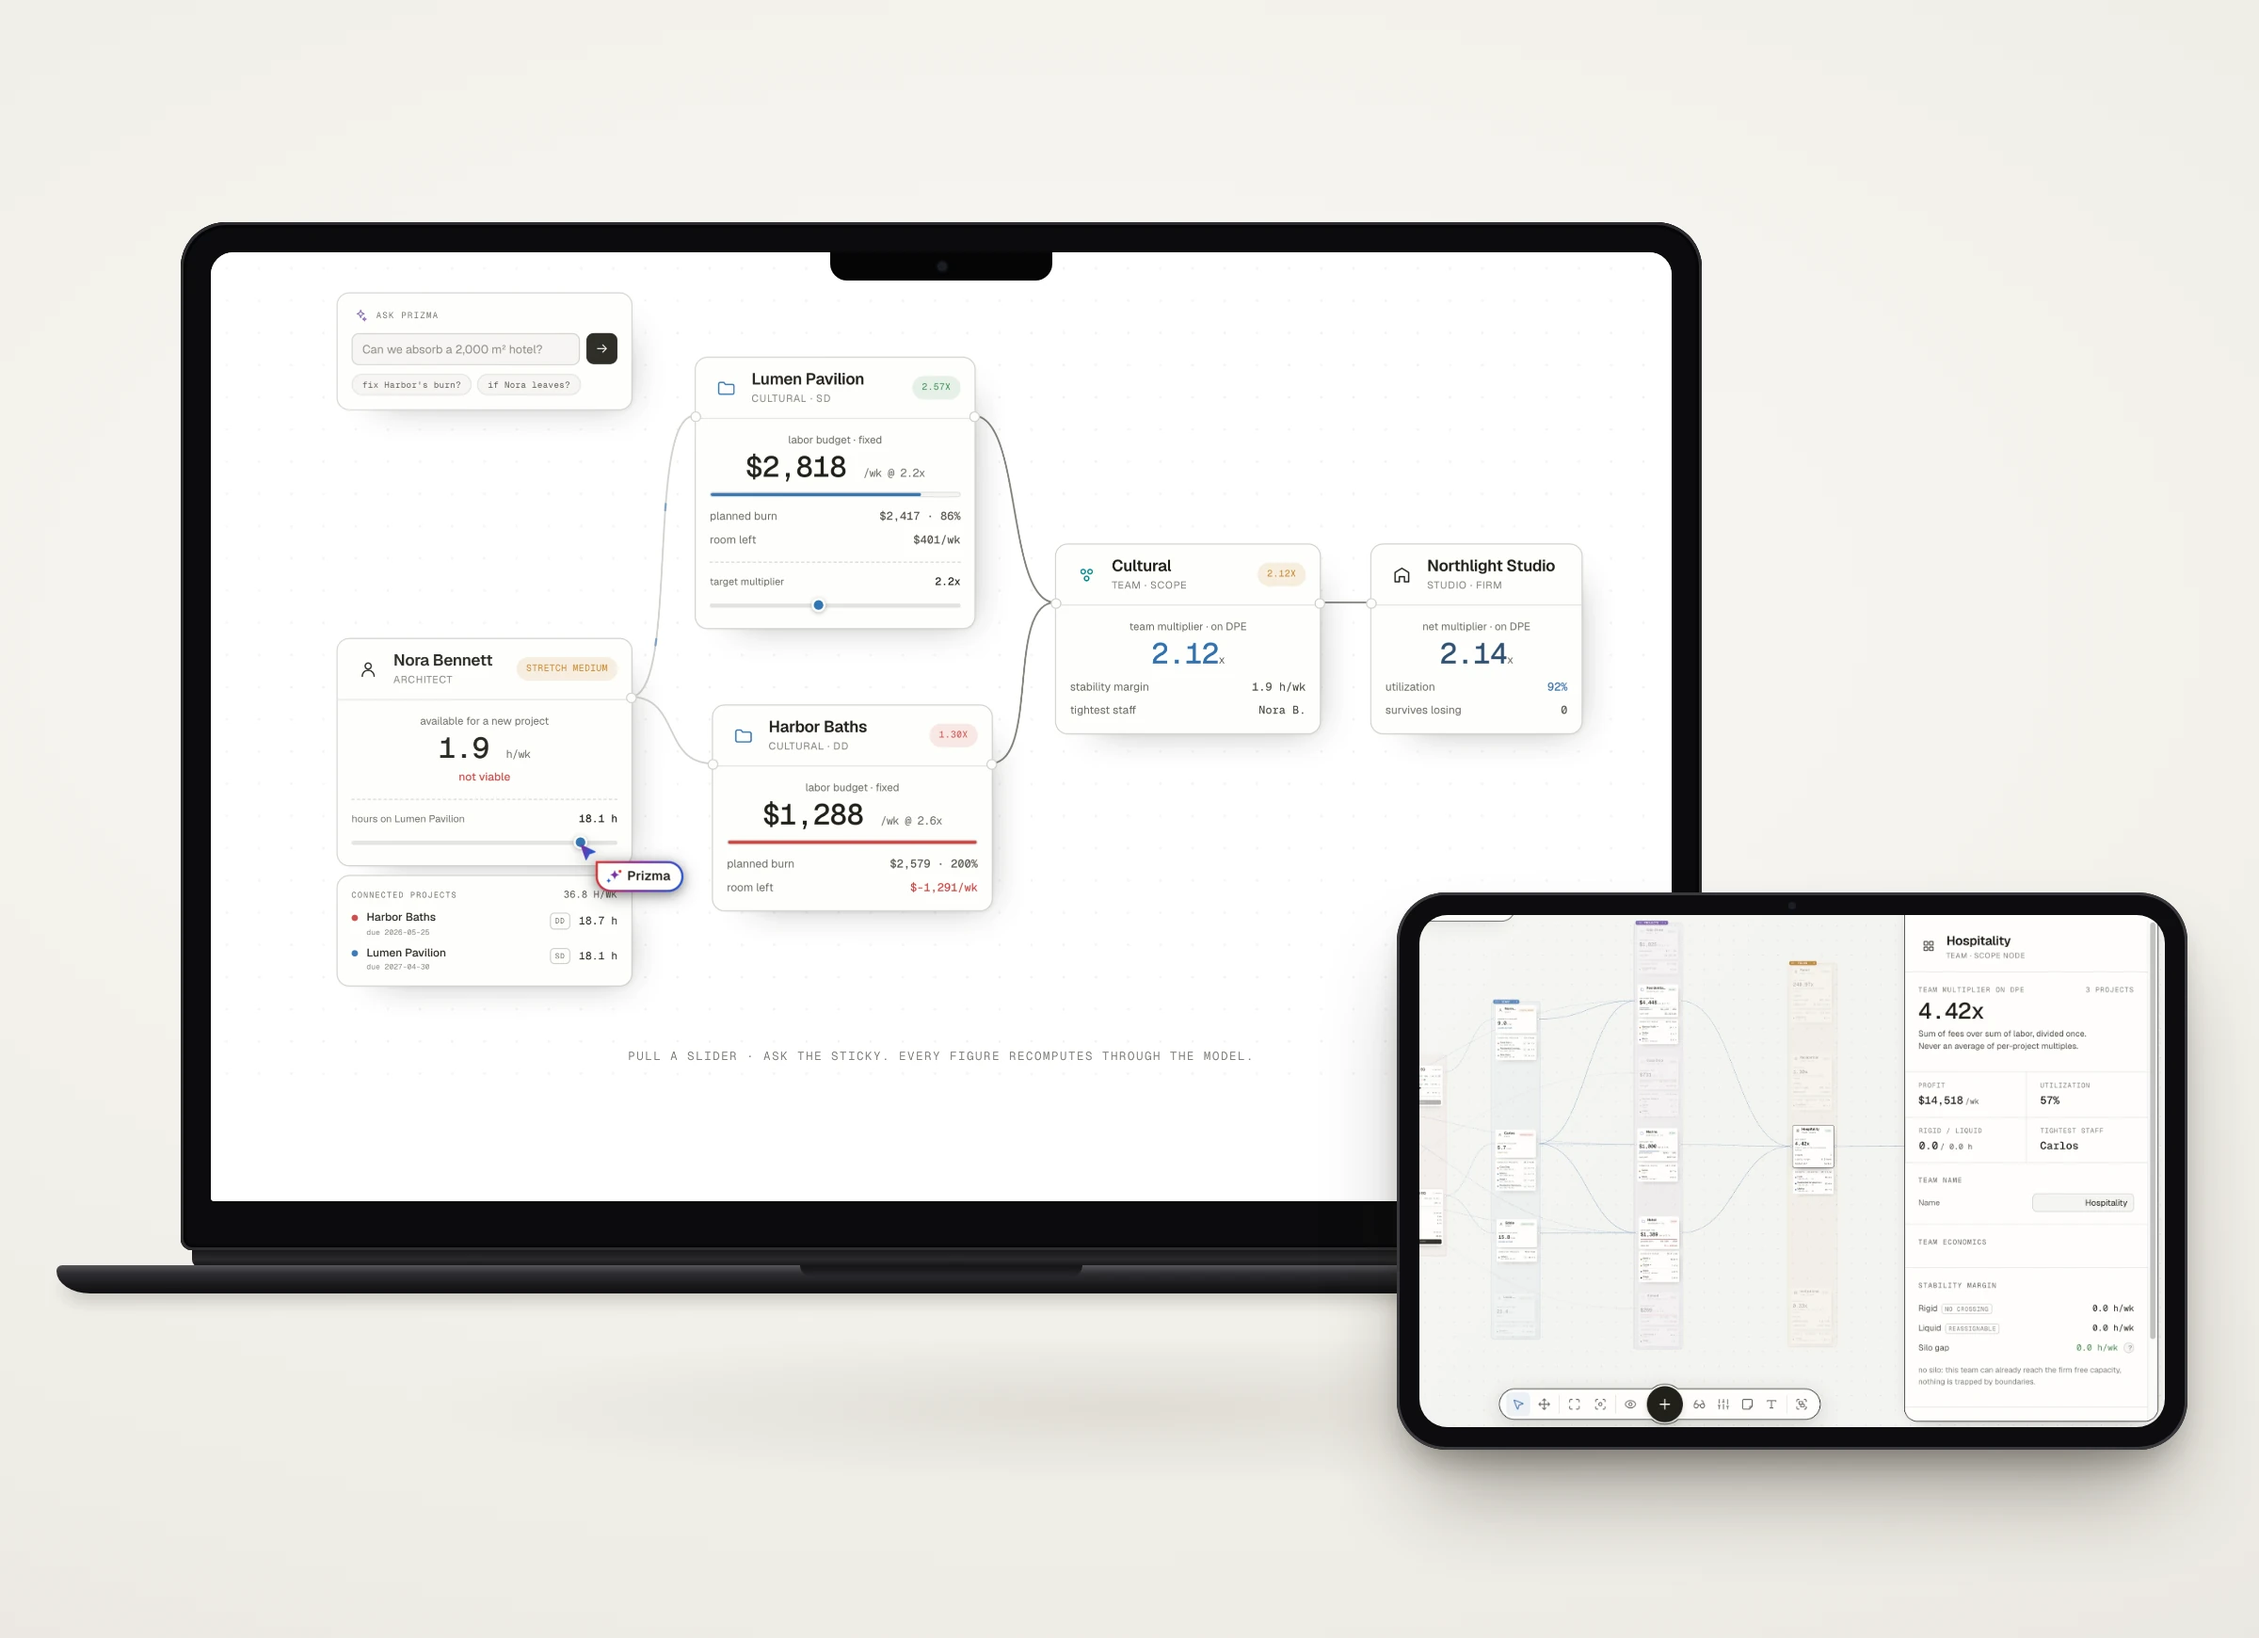
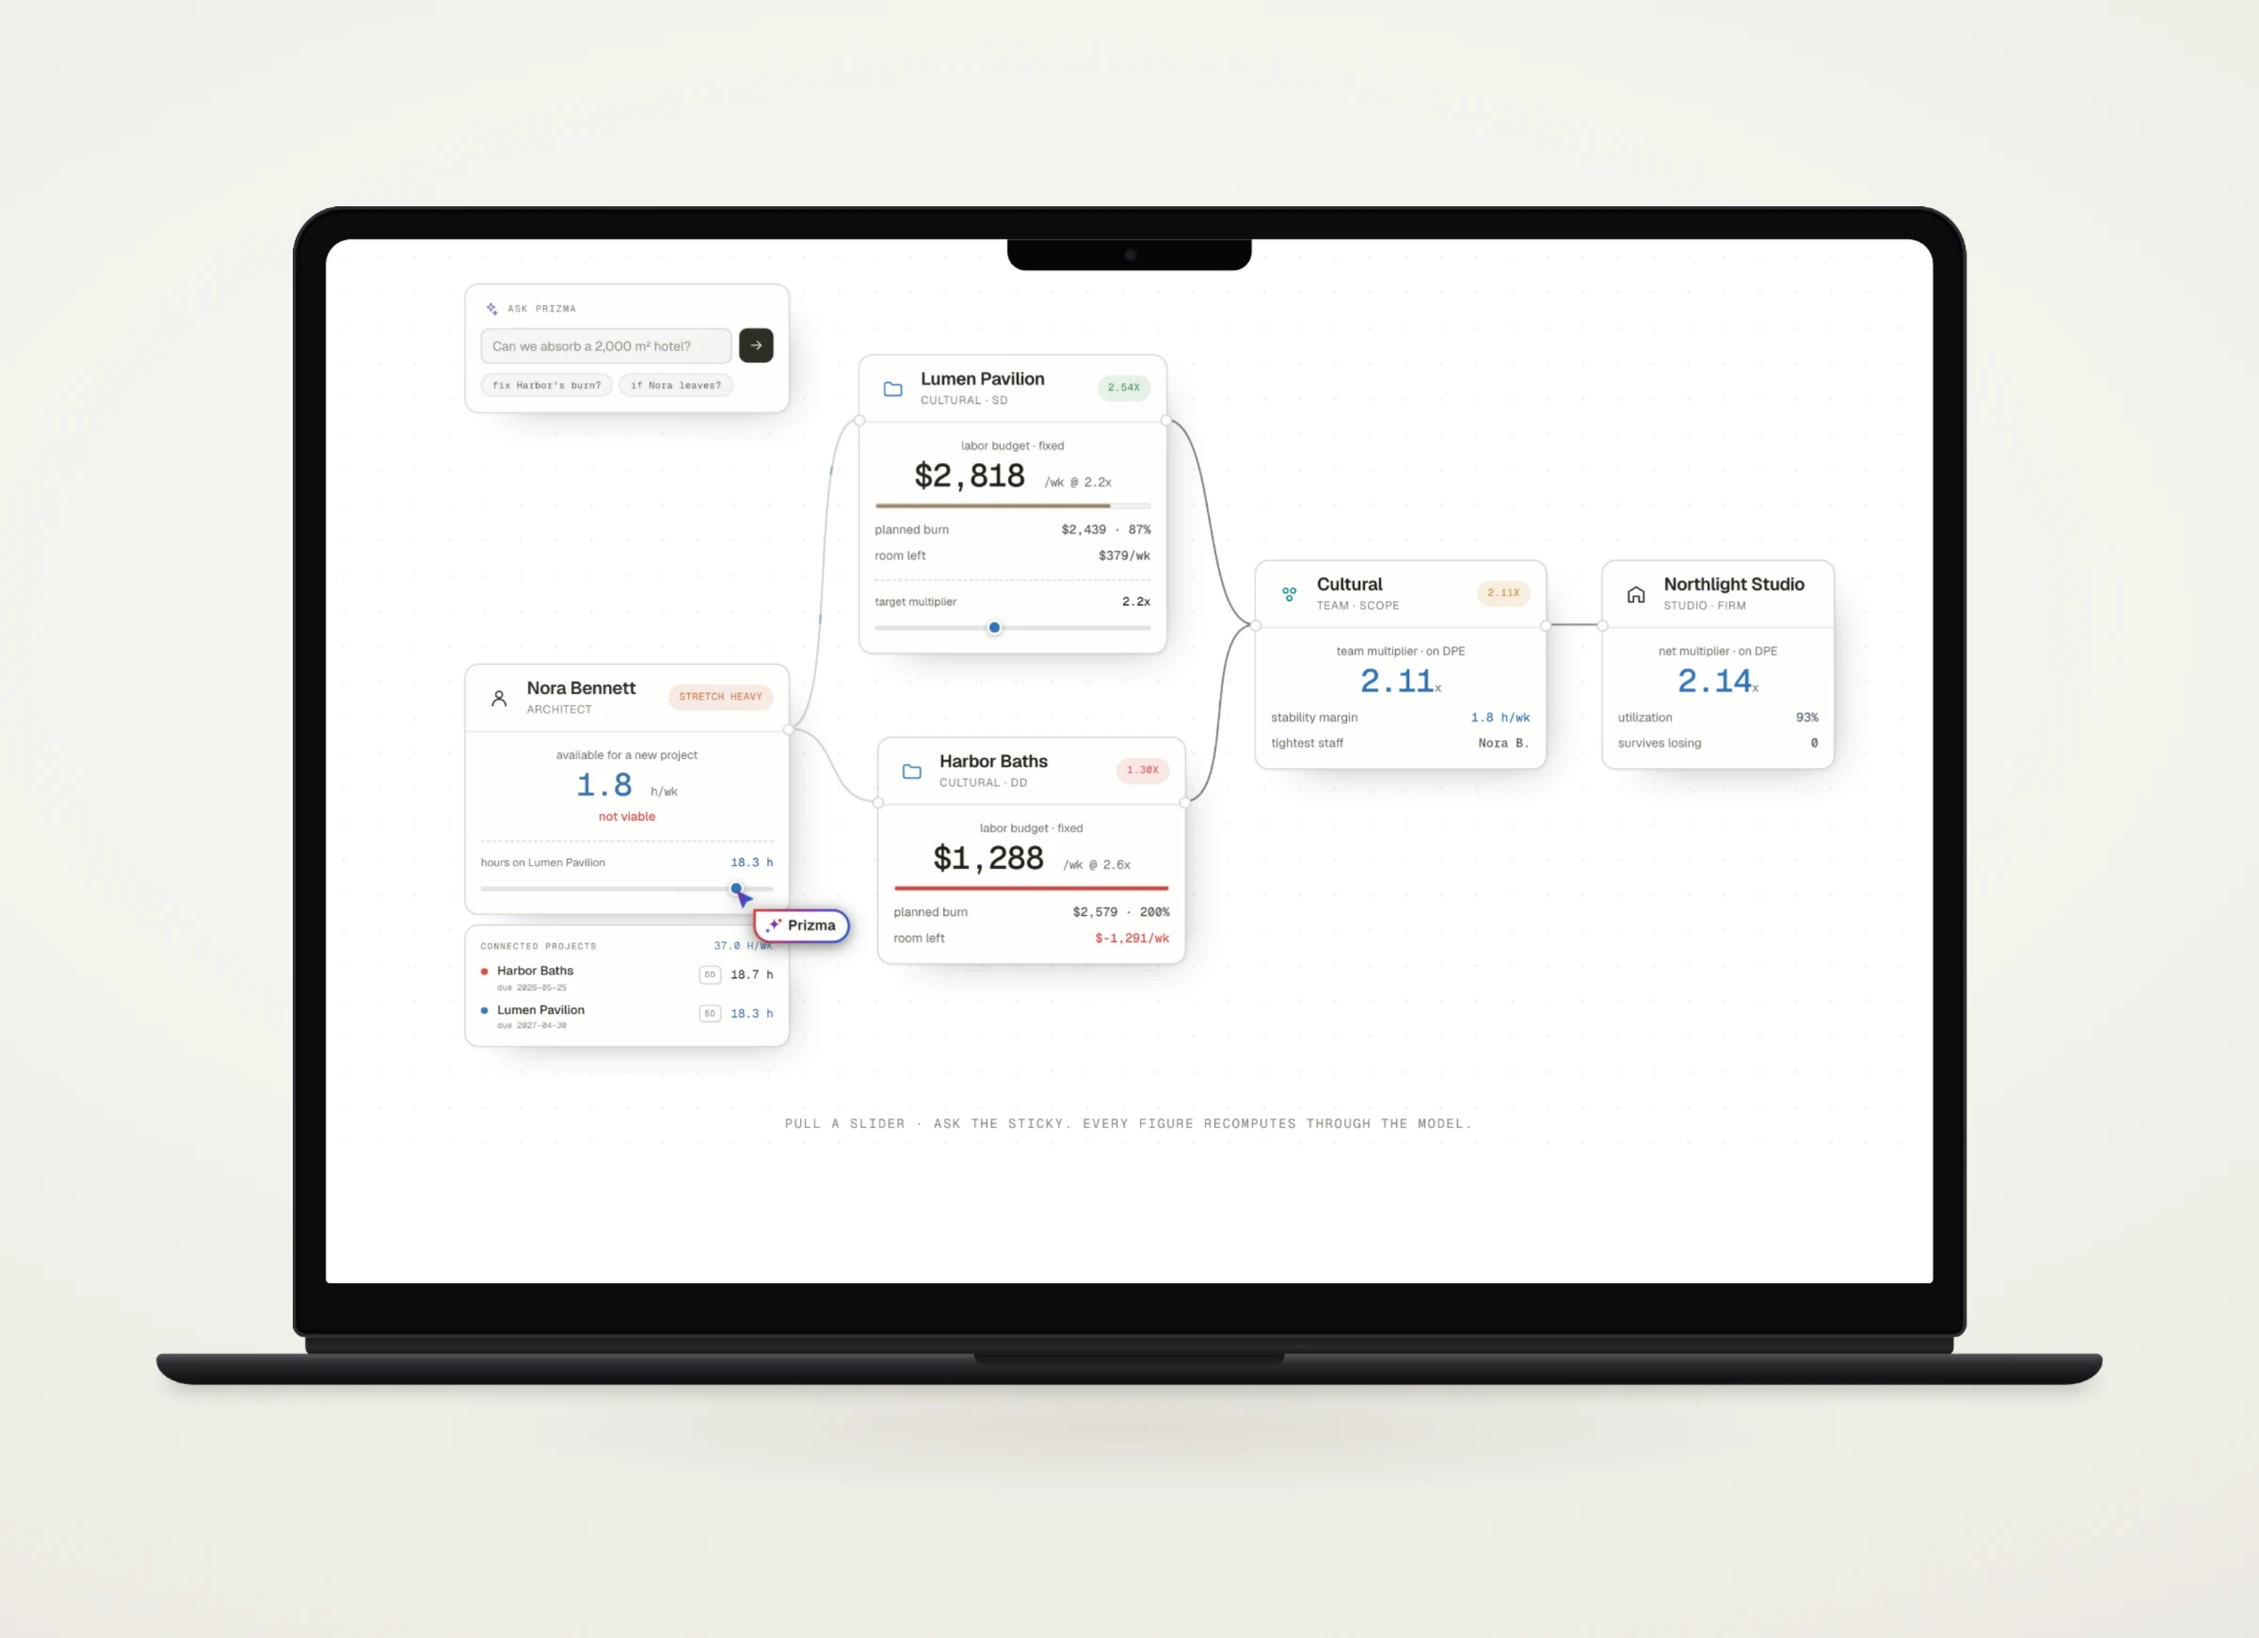
deploy: carlos-portfolio@12b53c7

diff --git a/index.html b/index.html
@@ -7,15 +7,15 @@
   <meta name="description" content="Carlos Vinocour, architect and computational designer. Selected work and an index of everything since 2013.">
   <title>Carlos Vinocour · Selected work</title>
   <link rel="icon" href="assets/mark.svg" type="image/svg+xml">
-  <link rel="stylesheet" href="style.css?v=8b8ff7a">
-  <script src="projects.js?v=8b8ff7a" defer></script>
-  <script src="hcp.js?v=8b8ff7a" defer></script>
-  <script src="surface.js?v=8b8ff7a" defer></script>
-<script src="assets/sizes.js?v=8b8ff7a" defer></script>
-<script src="data.js?v=8b8ff7a" defer></script>
-<script src="field.js?v=8b8ff7a" defer></script>
-<script src="more.js?v=8b8ff7a" defer></script>
-<script src="app.js?v=8b8ff7a" defer></script>
+  <link rel="stylesheet" href="style.css?v=12b53c7">
+  <script src="projects.js?v=12b53c7" defer></script>
+  <script src="hcp.js?v=12b53c7" defer></script>
+  <script src="surface.js?v=12b53c7" defer></script>
+<script src="assets/sizes.js?v=12b53c7" defer></script>
+<script src="data.js?v=12b53c7" defer></script>
+<script src="field.js?v=12b53c7" defer></script>
+<script src="more.js?v=12b53c7" defer></script>
+<script src="app.js?v=12b53c7" defer></script>
 </head>
 <body>
   <a class="skip" href="#content">Skip to content</a>

diff --git a/more.js b/more.js
@@ -153,7 +153,7 @@ const LAYOUTS = {
     eyebrow: 'Software · Studio operations',
     lede: 'A live model of an architecture firm. People, projects and fees are connected on a canvas, and every change recalculates capacity, yield and pricing across the practice.',
     blocks: () => [
-      hero('prizma/mockup', 'Prizma on a laptop and a tablet: the live canvas, and a team open in the app.'),   // tools/prizma_mockup.mjs (2026-11-01)
+      hero('prizma/mockup', 'Prizma on a laptop: the live canvas.'),   // tools/prizma_mockup.mjs (2026-11-01)
       live('prizma-live.html', 'The live model from heyprizma.com, with demo data.', 'Prizma, the live canvas'),
       side({ h: 'What can this firm safely absorb next?', p: [
         'Most studios decide whether to take a new project with a spreadsheet and a feeling. A spreadsheet holds the formulas but cannot show what moves when one thing changes. In Prizma the information lives in the connections: give a person a new project and the others lose hours, change a fee and the team\'s multiplier moves, lose a senior and a project is left without supervision.',
